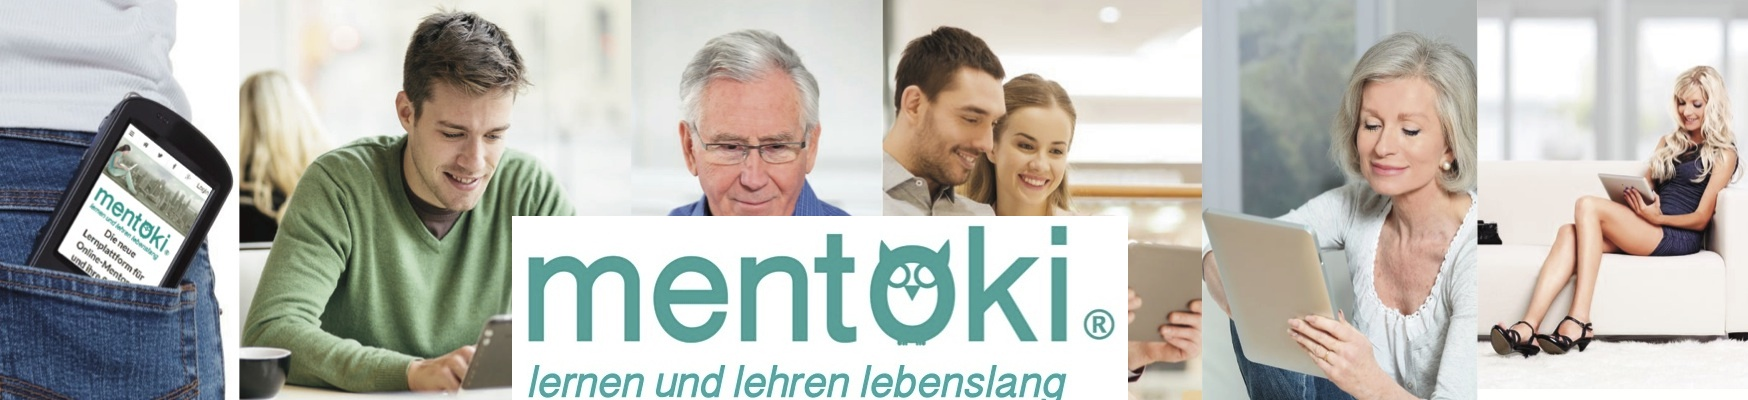
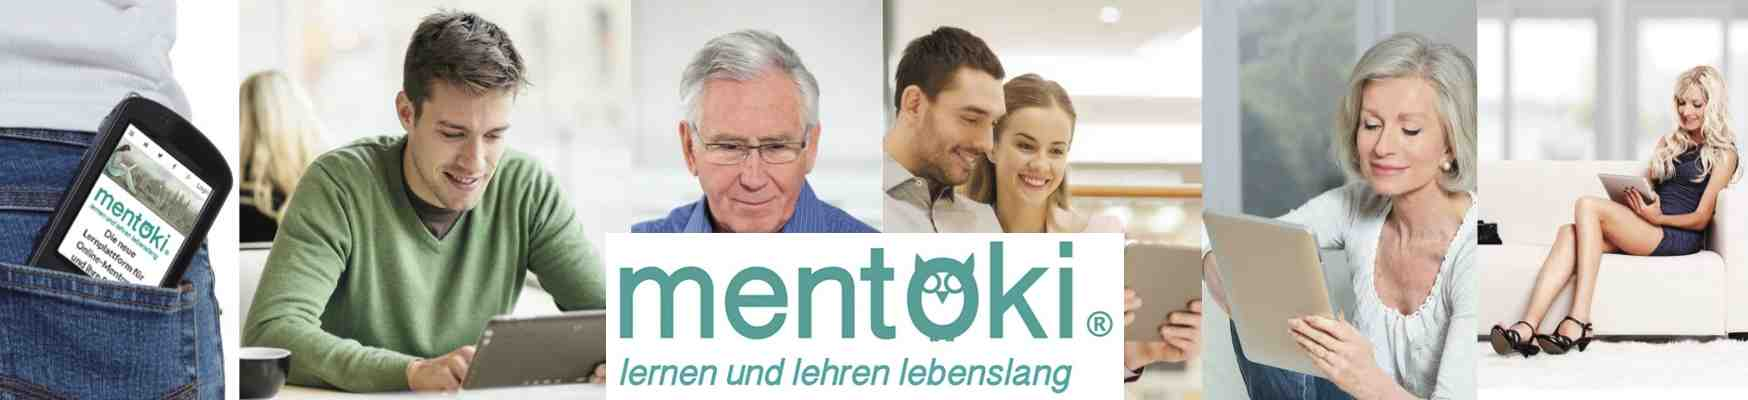
corrections text

diff --git a/templates/base/fragments/_navbar_big.html b/templates/base/fragments/_navbar_big.html
@@ -35,7 +35,7 @@ href="{{ home_url }}">
 >
 </a>
 <div class="ui left dropdown item">
-    Lernen bei mentoki
+    Lernen bei mentoki<sub>&reg;</sub>
     <i class="dropdown icon"></i>
     <div class="menu">
         <a href="{{ course_now_url }}" class="item
@@ -62,7 +62,7 @@ href="{{ home_url }}">
     </div>
 </div>
 <div class="ui left dropdown item">
-    Unterrichten bei mentoki
+    Unterrichten bei mentoki<sub>&reg;</sub>
     <i class="dropdown icon"></i>
     <div class="menu">
         <a href="{{ teachonline_url }}" class="item
@@ -89,7 +89,7 @@ href="{{ home_url }}">
     </div>
 </div>
 <div class="ui left dropdown item">
-    über mentoki
+    Über mentoki<sub>&reg;</sub>
     <i class="dropdown icon"></i>
     <div class="menu">
         <a href="{{ about_url }}" class="item
@@ -126,7 +126,7 @@ href="{{ home_url }}">
     {% if request.user.is_authenticated %}
         {{ request.user.username }}
     {% else %}
-        Benutzerbereich
+        Ihr Benutzerbereich
     {% endif %}
     <i class="dropdown icon"></i>
     <div class="menu">
@@ -136,21 +136,21 @@ href="{{ home_url }}">
                 active
             {% endifactive %}
             ">
-                Benutzerprofil
+                Ihr Benutzerprofil
             </a>
             <a href="{{ learn_url }}" class="item
             {% ifactive learn_url %}
                 active
             {% endifactive %}
             ">
-                Dein Lernen
+                Ihr Lernen
             </a>
             <a href="{{ teach_url }}" class="item
             {% ifactive teach_url %}
                 active
             {% endifactive %}
             ">
-                Dein Unterricht
+                Ihr Unterricht
             </a>
             {% if request.user.customer %}
                 <a href="{{ bookings_url }}" class="item
@@ -158,7 +158,7 @@ href="{{ home_url }}">
                 active
             {% endifactive %}
                 ">
-                    Deine Kursbuchungen
+                    Ihre Kursbuchungen
                 </a>
             {% endif %}
             {% if request.user.is_lektor or request.user.is_superuser %}

diff --git a/templates/base/fragments/_navbar_medium.html b/templates/base/fragments/_navbar_medium.html
@@ -89,7 +89,7 @@ href="{{ home_url }}">
     </div>
 </div>
 <div class="ui left dropdown item">
-    über mentoki
+    Über mentoki<sub>&reg;</sub>
     <i class="dropdown icon"></i>
     <div class="menu">
         <a href="{{ about_url }}" class="item
@@ -126,7 +126,7 @@ href="{{ home_url }}">
     {% if request.user.is_authenticated %}
         {{ request.user.username }}
     {% else %}
-        Benutzerbereich
+       Benutzerbereich
     {% endif %}
     <i class="dropdown icon"></i>
     <div class="menu">
@@ -136,21 +136,21 @@ href="{{ home_url }}">
                 active
             {% endifactive %}
             ">
-                Benutzerprofil
+                Ihr Benutzerprofil
             </a>
             <a href="{{ learn_url }}" class="item
             {% ifactive learn_url %}
                 active
             {% endifactive %}
             ">
-                Dein Lernen
+                Ihr Lernen
             </a>
             <a href="{{ teach_url }}" class="item
             {% ifactive teach_url %}
                 active
             {% endifactive %}
             ">
-                Dein Unterricht
+                Ihr Unterricht
             </a>
             {% if request.user.customer %}
                 <a href="{{ bookings_url }}" class="item
@@ -158,7 +158,7 @@ href="{{ home_url }}">
                 active
             {% endifactive %}
                 ">
-                    Deine Kursbuchungen
+                    Ihre Kursbuchungen
                 </a>
             {% endif %}
             {% if request.user.is_lektor or request.user.is_superuser %}

diff --git a/apps_public/home/templates/home/pages/homepage.html b/apps_public/home/templates/home/pages/homepage.html
@@ -19,7 +19,8 @@
                   style="opacity:0.9;"
                      alt="mentoki lernen und lehren lebenslang">
              <!-- image -->
-             <img class="ui image fluid" src="/static/img/mentoki_start.jpg">
+             <img class="ui image fluid" src="/static/img/mentoki_homepage1.jpg"
+                     alt="Leute verschiedenen Alters, die online lernen">
 
          </div>
 
@@ -40,7 +41,7 @@
                 -webkit-font-smoothing: antialiased;
                 padding-bottom:0px;
                 "
-                     >mentoki&reg; Lehr- und Lern-Plattform</h1>
+                     >mentoki<sub>&reg;</sub> Lehr- und Lern-Plattform</h1>
                 <div class="ui header center aligned  large" style="color:teal;
                 font-family: 'Montserrat', sans-serif;
                 padding-top:0px;
@@ -56,7 +57,7 @@
                     <div class="item">Wir begleiten Lernprojekte, statt zu belehren.</div>
                     <div class="item">Wir engagieren uns in Themen, die gesellschaftlich relevant sind.</div>
                     <div class="item">Wir sind für Sie da!</div>
-                    <div class="item">Wir glauben daran, dass Sie in jedem Alter alles lernen können!</div>
+                    <div class="item">Wir glauben daran, dass Sie in jedem Alter noch lernen können!</div>
 
             </div>
             </div>

diff --git a/templates/base/fragments/_footer.html b/templates/base/fragments/_footer.html
@@ -9,7 +9,7 @@
                 <div class="four wide column">
                     <h4 class="ui inverted header">Anschrift</h4>
                     <div class="ui inverted link list">
-                        <div class="item">Mentoki</div>
+                        <div class="item">mentoki<sub>&reg;</sub></div>
                         <div class="item">Leimbachstr. 223</div>
                         <div class="item">8041 Zürich</div>
                         <div class="item">Schweiz</div>
@@ -20,13 +20,13 @@
                     <h4 class="ui inverted header">Geschäftsbedingungen</h4>
                     <div class="ui inverted link list">
                         <a href="{{ impressum_url }}" class="item">Impressum</a>
-                        <a href="{{ agbs_url }}" class="item">AGBs</a>
+                        <a href="{{ agbs_url }}" class="item">AGB</a>
                     </div>
                 </div>
                 <div class="four wide column">
                     <h4 class="ui inverted header">Kontakt</h4>
                     <div class="ui inverted link list">
-                        <div class="item">email: mentoki@mentoki.com</div>
+                        <div class="item">email: mentoki.com</div>
                         <a href="{{ contact_url }}" class="item">Kontaktformular</a>
                     </div>
                 </div>

diff --git a/templates/base/fragments/_navbar_mobile.html b/templates/base/fragments/_navbar_mobile.html
@@ -35,7 +35,7 @@
 {% load activelink %}
 {% if request.user.is_authenticated %}
     <a class="header item" >
-        Hallo {{ request.user }}<br>Dein Benutzermenü
+        Hallo {{ request.user }}<br>Ihr Benutzermenü
     </a>
 
         <a href="{{ desk_url }}" class="item
@@ -43,21 +43,21 @@
                 active
             {% endifactive %}
         ">
-            Benutzerprofil
+            Ihr Benutzerprofil
         </a>
         <a href="{{ learn_url }}" class="item
             {% ifactive learn_url %}
                 active
             {% endifactive %}
         ">
-            Dein Lernen
+            Ihr Lernen
         </a>
         <a href="{{ teach_url }}" class="item
             {% ifactive teach_url %}
                 active
             {% endifactive %}
         ">
-            Dein Unterricht
+            Ihr Unterricht
         </a>
         {% if request.user.customer %}
             <a href="{{ bookings_url }}" class="item
@@ -65,7 +65,7 @@
                 active
             {% endifactive %}
             ">
-                Deine Kursbuchungen
+                Ihre Kursbuchungen
             </a>
         {% endif %}
             {% if request.user.is_lektor or request.user.is_superuser %}

diff --git a/templates/account/login.html b/templates/account/login.html
@@ -35,10 +35,10 @@ for a {{ site_name }} account and sign in below:{% endblocktrans %}</p>
 <!-- messages -->
 {% include 'base/fragments/_messages.html' %}
 
-<h3>
-    Oder wenn Sie noch nicht bei Mentoki registriert sind:
+<p>
+    Oder wenn Sie noch nicht bei mentoki&reg; registriert sind:<p></p>
     <a href="{{ signup_url }}" class="ui button">Jetzt registrieren</a>
-</h3>
+</p>
 
 <form class="login ui form" method="POST" action="{% url 'account_login' %}">
 
@@ -52,12 +52,12 @@ for a {{ site_name }} account and sign in below:{% endblocktrans %}</p>
 
     {% endif %}
 
+
+
+    <button class="ui button primaryAction" type="submit">{% trans "Sign In" %}</button>
     <a class="button secondaryAction" href="{% url 'account_reset_password' %}">
       {% trans "Forgot Password?" %}
     </a>
-
-    <button class="ui button primaryAction" type="submit">{% trans "Sign In" %}</button>
-
 </form>
 
 

diff --git a/templates/base/base_account.html b/templates/base/base_account.html
@@ -6,13 +6,13 @@
 
     <!-- text page -->
     <!-- grid -->
-    <div class="ui grid one column centered" style="padding-bottom:50px;">
+    <div class="ui grid one column centered" style="padding-bottom:50px;padding-top:40px; ">
 
          <!-- one column -->
          <div class="sixteen wide column" style="padding-top:0px;">
 
              <!-- logo -->
-             <img class="ui image centered huge image" src="/static/img/mentoki_start_account.jpg">
+             <img class="ui image centered huge image" src="/static/img/mentoki_account1.jpg">
              <!-- image -->
          </div>
 

diff --git a/templates/account/signup.html b/templates/account/signup.html
@@ -7,12 +7,9 @@
 {% block content %}
 <h1>{% trans "Sign Up" %}</h1>
 
-<div class="ui header large">Hallo
-  Willkommen bei Mentoki!
-</div>
-
-<p>Vielen Dank für Dein Interesse.</strong>
-Bevor Du bei uns einen Kurs buchen kannst, brauchen wir Deine Kontaktdaten:
+<p>Vielen Dank für Ihr Interesse an mentoki<sub>&reg;</sub>.</strong>
+Bevor Sie bei uns einen Kurs buchen können, benötigen wir Ihre Kontaktdaten. Bitte
+melden Sie sich bei uns an.
 
 <form class="signup ui form" id="signup_form" method="post" action="{% url 'account_signup' %}">
 

diff --git a/templates/account/README.md b/templates/account/README.md
@@ -1,9 +1,8 @@
-#accounts
+#django allauth template overwrites
 Mentoki makes use of a custom user model and also of the django app allauth.
 
-##templates
-the templates overwrite the allauth templates and are located in the general 
-template folder
+##this directory
+here you find the overwrites to django allauth
 
 
  
